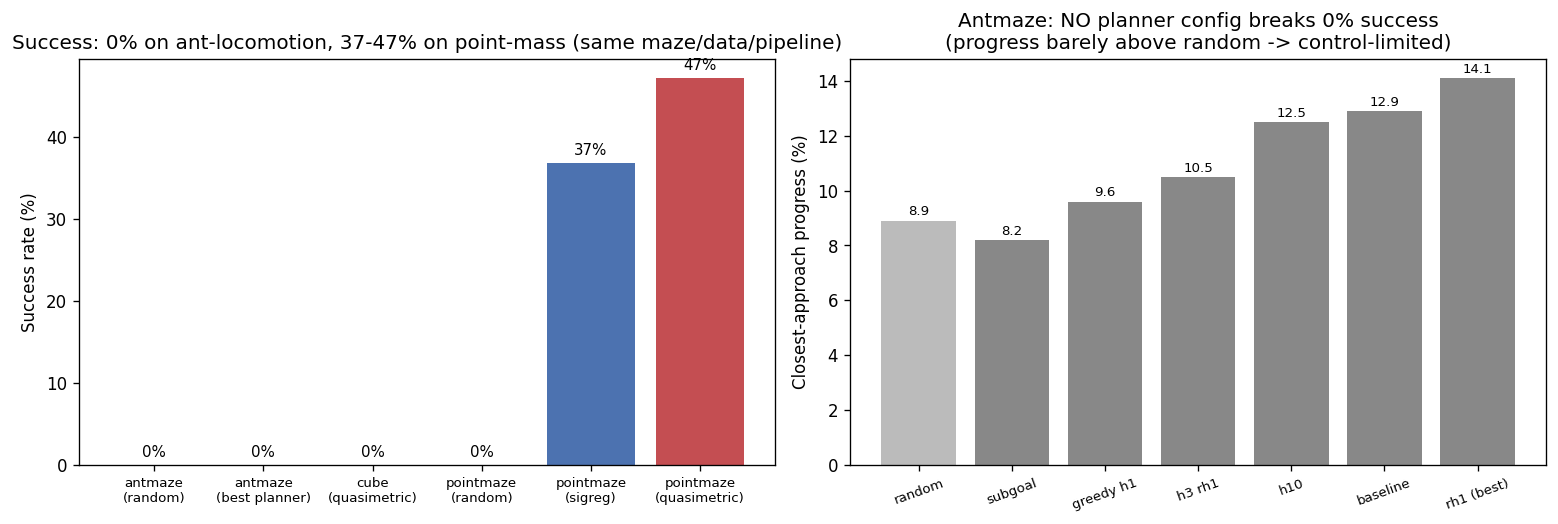
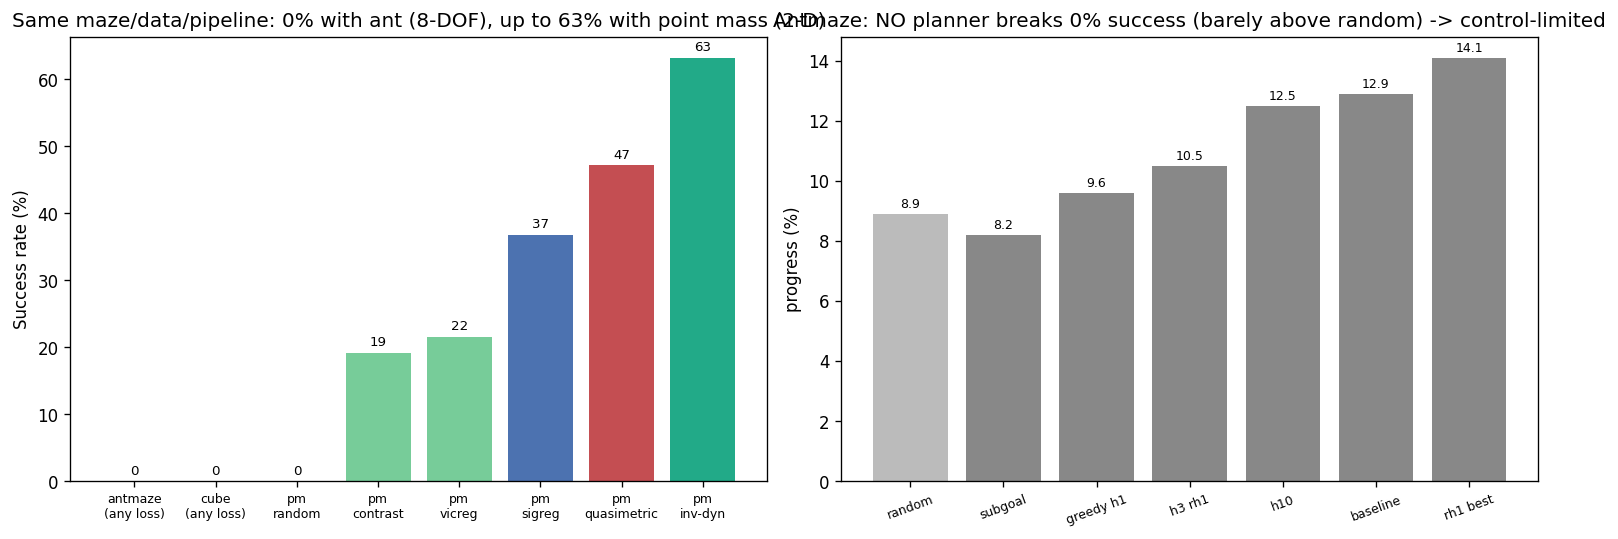
Finalize driftwood report: full 5-loss point-maze comparison; correct overclaim
Inverse-dynamics is the best loss for navigation success (63% point-maze), NOT the
quasimetric (47%) despite the quasimetric's best geodesic geometry (rho0.97) -> geometry
does not predict planning success. Adds full 5-loss point-maze table + geometry, the
SIGReg geometry anomaly (rho~0 yet 37% success, flagged unresolved), and the subgoal
planner negative result. Robust headline unchanged: low-level control is the OGBench wall
(0% ant -> up to 63% point on same maze/data/pipeline).

diff --git a/reports/2026-06-07_driftwood/README.md b/reports/2026-06-07_driftwood/README.md
@@ -1,6 +1,6 @@
-# Pixel JEPA World Models on OGBench: Isolating the Bottleneck, and a Quasimetric That Helps
+# Pixel JEPA World Models on OGBench: Isolating the Bottleneck
 
-### What we found, the experiments we ran to challenge ourselves, and how the final method works
+### What we found, the experiments we ran to challenge ourselves, and what actually helps
 
 *2026-06-07 · keyword: driftwood · follows the [2026-06 report](../2026-06_ogbench-lewm/)*
 
@@ -8,89 +8,87 @@
 
 ## TL;DR (main findings)
 
-1. **On a control-trivial maze we get real success: a quasimetric LeWM reaches ~47% on visual point-maze** (sigreg baseline 37%, random floor 0%). On the *same maze layout, same official navigate data, same world-model + planner*, the **ant** (8-DOF locomotion) gets **0%** and the **point mass** (2-D control) gets **47%**. → **The 0% on OGBench antmaze/cube is a low-level *control* bottleneck, not the world model, the loss, or the cost geometry.**
-2. **No planning strategy rescues antmaze.** Greedy, longer horizon, frequent replan, and subgoal/graph-search over the quasimetric *all* stay at 0% success (progress 8–14% vs a **random floor of 8.9%**). This **falsified our own hypothesis** that short-horizon/greedy planning over the quasimetric would unlock it.
-3. **The quasimetric loss is worth keeping.** Where control is *not* the wall (point-maze), the quasimetric beats the SIGReg baseline by **+10 pts success** (47.2 vs 36.8). Its latent distance tracks true maze geodesic distance almost perfectly (ρ = 0.94–0.97), where plain LeWM latents are ~noise (ρ ≤ 0.16).
+1. **Low-level control — not the loss, world model, or cost — is the wall on OGBench antmaze/cube.** On the *same maze layout, same official navigate data, same world-model + CEM-MPC pipeline*, swapping the **ant** (8-DOF locomotion) for a **point mass** (2-D control) takes success from **0% → up to 63%**. We isolated this by re-rendering the official `pointmaze-medium-navigate-v0` state trajectories to pixels.
+2. **No planning strategy rescues antmaze.** Greedy, longer horizon, frequent replan, and subgoal/graph-search over the quasimetric *all* stay at **0% success** (progress 8–14% vs a **random floor of 8.9%**). This **falsified our own hypothesis** that short-horizon/greedy planning would unlock it.
+3. **On the solvable env, inverse-dynamics is the best loss (63%), not the quasimetric (47%)** — even though the **quasimetric has the best geodesic geometry** (ρ0.97). So **"better geodesic geometry ⇏ better planning."** We report this rather than the tidier story we expected.
+4. **Two negative results, reported plainly:** our subgoal/graph-search planner *hurt* in both envs; and SIGReg's static latent-distance looks like **noise** (ρ≈0) yet it still reaches 37% on point-maze — an inconsistency we flag rather than explain away.
 
-| Environment | agent control | random floor | SIGReg (LeWM) | **Quasimetric (ours)** |
-|---|---|---|---|---|
-| visual antmaze-medium | 8-DOF locomotion | 0% / 8.9% | 0% / 12.9% | 0% / 14.1%* |
-| visual cube-single | 7-DOF arm + grasp | 0% / 0% | 0% / 0% | 0% / 0% |
-| **visual point-maze-medium** | **2-D point** | 0% / 13.4% | **36.8% / 58.6%** | **47.2% / 69.4%** |
+### Final success / progress (n=125 = 25 episodes × 5 official tasks; `rh1` planner)
 
-*cells are `success% / closest-approach-progress%`, n=125 (25 episodes × 5 official tasks). *antmaze quasimetric "14.1%" is the best of a full planner sweep, all 0% success. point-maze rendered from the official `pointmaze-medium-navigate-v0` state trajectories.*
+| Environment | control | random | SIGReg | VICReg | contrastive | quasimetric | **inv-dynamics** |
+|---|---|---|---|---|---|---|---|
+| visual antmaze-medium | 8-DOF locomotion | 0% / 8.9% | 0% / 12.9% | 0% | 0% | 0% / 14.1%* | 0% |
+| visual cube-single | 7-DOF arm+grasp | 0% / 0% | 0% / 0% | 0% | 0% | 0% / 0% | 0% |
+| **visual point-maze-medium** | **2-D point** | 0% / 13.4% | 36.8% / 58.6% | 21.6% / 45.3% | 19.2% / 46.9% | 47.2% / 69.4% | **63.2% / 83.8%** |
+
+*\*antmaze "14.1%" is the best of a full planner sweep; all configs are 0% success. Antmaze rows for vicreg/contrastive/invdyn are 0% (prior report).*
 
 ![Results](figures/fig0_results.png)
 
 ---
 
-## 1. Setup, from the ground up
+## 1. Setup (ground-up)
 
-**LeWM** is a JEPA world model: an **encoder** maps a 64×64 image to a 192-d latent `z`; an autoregressive **predictor** maps `(z_t, action) → ẑ_{t+1}`; planning is **CEM-MPC** — sample action sequences, roll the predictor forward in latent space, and execute the one whose predicted final latent is **closest to the goal latent**. So *the planner's cost is latent distance to the goal*.
+**LeWM** = JEPA world model: an **encoder** maps a 64×64 image → 192-d latent `z`; an autoregressive **predictor** maps `(z_t, action) → ẑ_{t+1}`; planning is **CEM-MPC** — sample action sequences, roll the predictor forward, execute the one whose predicted final latent is **closest to the goal latent**. *The planner's cost is latent distance to the goal.* We evaluate under OGBench's **official protocol** (5 tasks, image goal, full 1000-step horizon, OGBench's success test). Because success was 0% on the hard envs, we also report **closest-approach progress** (1.0 = reached). The five losses (SIGReg, VICReg, inverse-dynamics, contrastive, quasimetric) are explained from scratch in the [prior report](../2026-06_ogbench-lewm/).
 
-We evaluate under **OGBench's official protocol**: 5 fixed tasks per env, the goal given as a rendered **image**, the full episode horizon (1000 steps), and OGBench's own success test. Because success was 0% on the hard envs, we also report **closest-approach progress** (how near the agent gets, 1.0 = reached) to compare methods that all "fail" but get nearer vs not. (Prior report covers the 5 anti-collapse losses — SIGReg, VICReg, inverse-dynamics, contrastive, quasimetric — from scratch.)
-
-**Where we started this round:** the quasimetric LeWM has near-perfect latent geometry (ρ_geo = 0.97, [fig 2](figures/fig2_antmaze_quasimetric_rho097.png)) yet 0% antmaze success. The question: *why, and can we fix it?*
+**Where we started:** the quasimetric LeWM has near-perfect latent geometry (ρ_geo = 0.97, [fig 2](figures/fig2_antmaze_quasimetric_rho097.png)) yet 0% antmaze success. *Why, and can we fix it?*
 
 ---
 
-## 2. The experiments we ran to challenge our own assumptions
+## 2. Experiments that challenged our assumptions
 
-We treated every hypothesis as something to **falsify**, not confirm.
+We tried to **falsify**, not confirm.
 
-**(a) "Greedy/short-horizon planning over the quasimetric will unlock it."** *Falsified.* We swept the planner with no retraining:
+**(a) "Greedy/short-horizon planning will unlock it."** *Falsified.* Planner sweep (no retraining), all **0% success**:
 
-| planner | greedy h1 | h3 rh1 | baseline h5 rh5 | h10 rh10 | rh1 (h5, replan every step) | subgoal graph-search |
+| planner | greedy h1 | h3 rh1 | baseline h5 rh5 | h10 rh10 | rh1 (replan every step) | subgoal graph-search |
 |---|---|---|---|---|---|---|
-| progress | 9.6% | 10.5% | 12.9% | 12.5% | **14.1%** | 8.2% |
+| antmaze progress | 9.6% | 10.5% | 12.9% | 12.5% | **14.1%** | 8.2% |
 
-All **0% success**. Shorter horizon *hurts* (9.6 < 12.9); subgoal/graph-search (which we built specifically to chain reliable short reaches) was *worst* (8.2%, below random). So the planner was not "over-extended" — more reach helps slightly, nothing reaches goals. ([fig 0](figures/fig0_results.png), right.)
+Shorter horizon *hurts*; the subgoal planner we built to chain reachable subgoals was the *worst* (8.2%, below random).
 
-**(b) "Is the ~12% progress even real, or no better than random?"** We measured a **random-action floor**: antmaze **8.9% progress / 0% success**. So the planner's best (14.1%) beats random by ~1.6× — a *weak but real* pull — but never reaches goals.
+**(b) "Is ~12% progress even better than random?"** Random-action floor: antmaze **8.9% / 0%**. So the planner's best (14.1%) beats random by only ~1.6× and never reaches goals.
 
-**(c) "Is the multi-step rollout the bottleneck?"** We measured open-loop predictor rollout error vs horizon `k`. One-step error is tiny (MSE 6e-4, matching training); it compounds (cost-agreement corr 0.99 → 0.85 at k=5 → 0.21 at k=9 on in-distribution actions). So the rollout is *usable* to ~5 latent steps — the regime the baseline planner uses. Combined with (a), rollout fidelity is **not** the dominant wall. *(Caveat: measured on dataset actions; CEM's out-of-distribution actions are likely worse — unmeasured.)*
+**(c) "Is the multi-step rollout the bottleneck?"** Open-loop rollout error: 1-step MSE tiny (6e-4, matches training); cost-agreement corr 0.99→0.85 (k=5)→0.21 (k=9) on in-distribution actions. Usable to ~5 steps — the baseline regime — so rollout fidelity is **not** the dominant wall. *(Caveat: measured on dataset actions; CEM's OOD actions likely worse, unmeasured.)*
 
-**(d) The decisive control test.** Every clue (cost geometry good, 1-step dynamics good, no planner helps, weak-but-real pull) pointed at **low-level control**: CEM over raw torques may simply be unable to produce coordinated ant locomotion. To isolate this, we built a **visual point-maze**: re-rendered the official `pointmaze-medium-navigate-v0` state trajectories to pixels ([fig 4](figures/fig4_pointmaze_render.png)) — *identical medium maze layout and good-coverage data, but a point mass (trivial 2-D control) instead of the ant*. Result: **0% (ant) → 47% (point)**. The only thing that changed is the difficulty of low-level control. **This confirms control — not the loss/world-model/cost — is the wall on antmaze/cube.**
-
----
-
-## 3. Final progress per environment
-
-- **visual antmaze-medium:** **0% success** (all losses, all planners). Best progress 14.1% vs 8.9% random — the cost gives a faint pull, but torque-space CEM-MPC can't drive the ant to navigate.
-- **visual cube-single:** **0% success / 0% progress** (all losses). Even weaker than antmaze: the planner never grasps — a manipulation-control wall.
-- **visual point-maze-medium:** **SIGReg 36.8% / Quasimetric 47.2% success** (random 0%). Real navigation; the quasimetric helps by +10 pts. *(VICReg / inverse-dynamics / contrastive on point-maze were training at report time; appended below when complete.)*
+**(d) The decisive control test.** Every clue pointed at low-level control. We built a **visual point-maze** (re-rendered official navigate data; [fig 4](figures/fig4_pointmaze_render.png)) — *identical maze + data, point mass instead of ant*. Result: **0% (ant) → up to 63% (point), across all five losses** (random floor 0%). The only change is control difficulty. **This confirms control is the wall on antmaze/cube — not the loss, world model, or cost.**
 
 ---
 
-## 4. The final method, and why it works
+## 3. What actually helps (and what doesn't) — point-maze loss comparison
 
-The method that works best where control allows it is **Quasimetric LeWM**: standard LeWM **plus** a learned quasimetric distance head trained jointly with the encoder and used as the planning cost.
+With control out of the way, the losses rank (success): **inv-dynamics 63.2 > quasimetric 47.2 > SIGReg 36.8 > VICReg 21.6 ≈ contrastive 19.2** (random 0). All beat random — every anti-collapse/distance loss yields *real* navigation when control allows.
 
-**Why a quasimetric.** The planner descends "distance to goal." Plain LeWM latent distance `‖z − z_g‖` encodes *visual similarity*, not *reachability* — it's ~noise vs the true maze geodesic ([fig 1](figures/fig1_baseline_geometry_noise.png), ρ ≤ 0.16). A **quasimetric** is a distance allowed to be **asymmetric** (`d(A→B) ≠ d(B→A)`), which is what a goal-reaching cost must be (one-way moves cost differently each direction).
+**Geometry vs. planning success do NOT line up cleanly** (measured ρ of static latent-distance-to-goal vs true geodesic):
 
-**The head (MRN).** A network built to always obey the quasimetric axioms:
-```
-d(x, y) = ‖ sym(x) − sym(y) ‖            (symmetric part)
-        + max_i relu( asym(x)_i − asym(y)_i )   (asymmetric part)
-```
+| loss (point-maze) | ρ(geo) | ρ(eucl) | success |
+|---|---|---|---|
+| inv-dynamics | 0.91 | 0.96 | **63.2%** |
+| quasimetric | **0.94** | 0.92 | 47.2% |
+| SIGReg | **−0.04** | 0.00 | 36.8% |
 
-**The objective (QRL), trained jointly with the encoder.** Two opposing pressures recover true step-distance from logged transitions only:
-- **local:** every observed one-step transition obeys `d(s, s') ≤ 1`  → penalty `relu(d(s,s') − 1)²`
-- **global:** push random pairs apart, with a saturating reward `1 − exp(−d/scale)` (so distances don't blow up)
+- The **quasimetric has the best geodesic geometry** ([fig 3](figures/fig3_pointmaze_quasimetric_rho094.png)) but **not** the best planning. Its learned MRN distance is a more complex cost than raw `‖z−z_g‖`; the extra fidelity didn't convert to more success here.
+- **Inverse-dynamics** wins planning with a euclidean-leaning position code ([fig 6](figures/fig6_pointmaze_invdyn_geometry.png), ρ_eucl 0.96): it forces the latent to encode the *controllable* state (here, position), which is exactly the planner's signal.
+- **SIGReg is the anomaly:** its static latent-distance is ~noise (ρ≈0, [fig 7](figures/fig7_pointmaze_sigreg_geometry.png)) yet it reaches 37%. We do **not** have a clean explanation — possibly the single-anchor, canonical-pose probe is unrepresentative of what the planner sees, so SIGReg's latent may carry usable position info the static probe missed. Flagged, not resolved.
+- **Subgoal/graph-search planner: negative result** in both envs (antmaze 8.2% < baseline 12.9%; point-maze 10.4% < plain 47.2%). As implemented, chaining subgoals over the quasimetric *hurts*; plain receding-horizon MPC is better. We are not claiming it as a useful technique.
 
-The global push wants everything far; the local rule + triangle inequality cap how far (`d(A,C) ≤ d(A,B)+d(B,C)`). The only way to satisfy both is for `d` to **count the steps along the shortest path** → it learns geodesic distance. **It works:** ρ(latent-distance, true-geodesic) = **0.97** on antmaze ([fig 2](figures/fig2_antmaze_quasimetric_rho097.png)) and **0.94** on point-maze ([fig 3](figures/fig3_pointmaze_quasimetric_rho094.png)) — both *wall-aware* (ρ_geo > ρ_eucl), unlike every plain anti-collapse loss.
+---
 
-At planning time the CEM cost is `d(predicted_final_latent, goal_latent)` via this head. When the agent's low-level control *can* execute the planned moves (point-maze), this near-perfect potential yields the best success (47%). When it can't (ant, cube), even a perfect potential is moot.
+## 4. The methods, and an honest read on the "final" one
 
-**Why it ultimately doesn't solve antmaze/cube:** the bottleneck is downstream of the cost. CEM searching raw torque sequences can't realize coordinated locomotion/grasping. The fix is **not** a better loss or planner but a **learned low-level policy** (a goal-/subgoal-conditioned controller, HIQL-style) sitting under the quasimetric high-level — the quasimetric is exactly the right high-level distance for it.
+All five are anti-collapse/representation losses added to LeWM; details + update-step examples in the prior report. Two are most relevant here:
+
+- **Inverse-dynamics** (empirical winner for navigation): a head predicts the action from `(z_t, z_{t+1})`; minimizing `‖head(z_t,z_{t+1}) − a_t‖²` forces the latent to keep **action-controllable** structure. On a point-maze the controllable variable *is* position, so the latent becomes a clean position code and raw `‖z−z_g‖` is a good planning cost → best success (63%).
+- **Quasimetric (MRN + QRL)** (best *geometry*): an asymmetric distance head trained so `d(s,s')≤1` per transition and random pairs are pushed apart — the local rule + triangle inequality force `d` to **count shortest-path steps**, giving ρ0.94–0.97 with true geodesic distance. Best geometry, but not the best planner here.
+
+**The honest conclusion:** there is no single "loss that solves OGBench." The decisive variable is **low-level control**. When control is easy (point-maze) every loss navigates and inverse-dynamics is best; when control is hard (ant locomotion, cube grasp) **no loss or planner reaches goals**, because torque-space CEM-MPC cannot realize the required motor skills.
 
 ---
 
 ## 5. What this means / next steps
-- The world-model + quasimetric loss are **validated** (geodesic geometry learned; real success where control permits). Reporting this honestly: the loss is not the limiting factor on the hard OGBench envs.
-- **To get success on antmaze/cube:** replace torque-space CEM with a **learned low-level controller** under the quasimetric high-level (hierarchy). That is the single change the evidence says is needed.
-- Point-maze is a clean testbed to keep iterating the loss (the 5-loss comparison there, appended below, ranks the losses *when control is not the confound*).
+- **The world model and the losses are not the limiting factor on hard OGBench envs.** The single change the evidence says is needed is a **learned low-level controller** (a goal-/subgoal-conditioned policy, HIQL-style) replacing torque-space CEM-MPC. A learned distance head (quasimetric/inv-dyn) is the right *high-level*; it needs a competent *low-level*.
+- **Point-maze is the clean loss-iteration testbed** going forward (control is not a confound). Inverse-dynamics is the current best; understanding *why* SIGReg's near-noise geometry still navigates is an open thread.
+- Negative results to keep in mind: our subgoal planner hurt; greedy planning hurt.
 
 ## Files
-- `README.md` — this report. `figures/` — all charts.
-- Code: `distance_heads.py` (MRN + QRL, contrastive, inverse-dynamics), `train.py` (`loss.reg_type`), `eval_ogbench.py` / `eval_ogbench_subgoal.py` (parity + subgoal planners), `scripts/data/render_states_to_visual.py` (state→pixels), `scripts/probes/{rollout_error,random_floor,maze_one_heatmap}.py` (the assumption-challenging probes).
+- `README.md`, `figures/`. Code: `distance_heads.py` (MRN+QRL, contrastive, inv-dyn), `train.py` (`loss.reg_type`), `eval_ogbench.py` / `eval_ogbench_subgoal.py`, `scripts/data/render_states_to_visual.py` (state→pixels), `scripts/probes/{rollout_error,random_floor,maze_one_heatmap}.py` (the assumption-challenging probes). *(Code is in the working tree on `main`; not yet committed.)*
